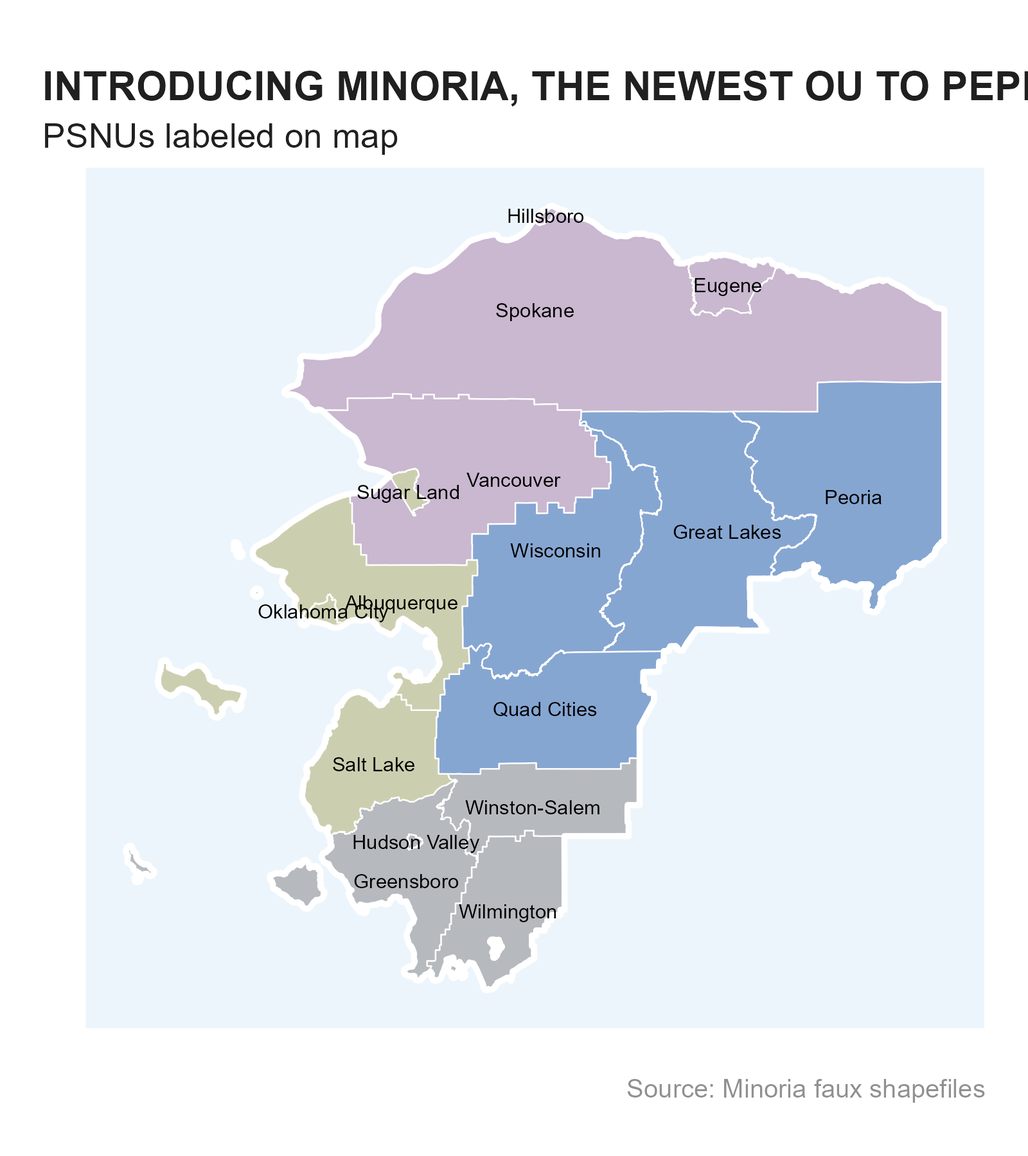
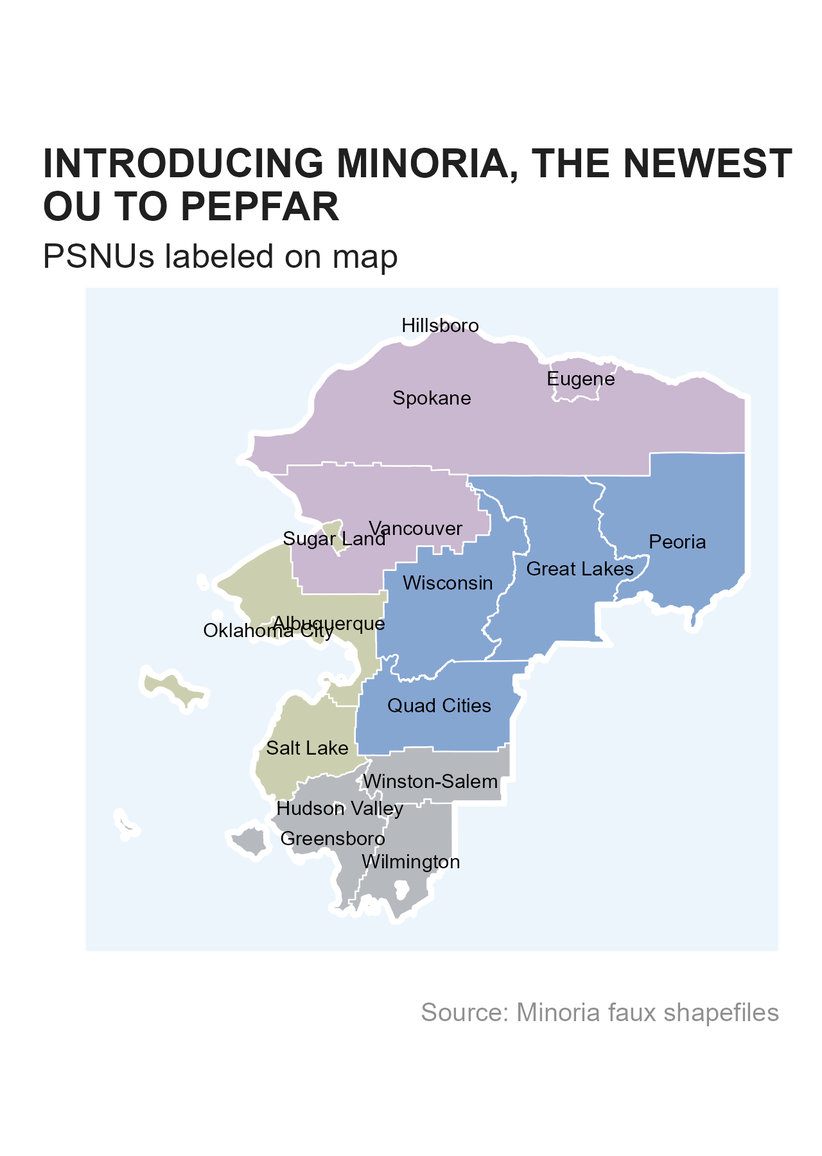
Deploying to gh-pages from @ USAID-OHA-SI/themask@cf52c7e6ea538b33329b32a1de2f7572c10486b0 🚀

diff --git a/articles/accessing-data.html b/articles/accessing-data.html
@@ -146,42 +146,19 @@ MSD available if you want to create your own version.</p>
 <div class="sourceCode" id="cb1"><pre class="downlit sourceCode r">
 <code class="sourceCode R"><span></span>
 <span><span class="co">#Install packages from</span></span>
-<span><span class="fu">remotes</span><span class="fu">::</span><span class="fu"><a href="https://remotes.r-lib.org/reference/install_github.html" class="external-link">install_github</a></span><span class="op">(</span><span class="st">"USAID-OHA-SI/gophr"</span><span class="op">)</span></span>
-<span><span class="co">#&gt; cpp11       (NA -&gt; 0.4.6 ) [CRAN]</span></span>
-<span><span class="co">#&gt; zip         (NA -&gt; 2.3.0 ) [CRAN]</span></span>
-<span><span class="co">#&gt; rstudioapi  (NA -&gt; 0.15.0) [CRAN]</span></span>
-<span><span class="co">#&gt; credentials (NA -&gt; 2.0.1 ) [CRAN]</span></span>
-<span><span class="co">#&gt; progress    (NA -&gt; 1.2.2 ) [CRAN]</span></span>
-<span><span class="co">#&gt; gert        (NA -&gt; 2.0.0 ) [CRAN]</span></span>
-<span><span class="co">#&gt; usethis     (NA -&gt; 2.2.2 ) [CRAN]</span></span>
-<span><span class="co">#&gt; tidyr       (NA -&gt; 1.3.0 ) [CRAN]</span></span>
-<span><span class="co">#&gt; readxl      (NA -&gt; 1.4.3 ) [CRAN]</span></span>
-<span><span class="co">#&gt; getPass     (NA -&gt; 0.2-2 ) [CRAN]</span></span>
-<span><span class="co">#&gt; <span style="color: #00BBBB;">──</span> <span style="color: #00BBBB;">R CMD build</span> <span style="color: #00BBBB;">─────────────────────────────────────────────────────────────────</span></span></span>
-<span><span class="co">#&gt; * checking for file ‘/tmp/RtmptbJYWt/remotes19bc542666be/USAID-OHA-SI-gophr-9779d75/DESCRIPTION’ ... OK</span></span>
-<span><span class="co">#&gt; * preparing ‘gophr’:</span></span>
-<span><span class="co">#&gt; * checking DESCRIPTION meta-information ... OK</span></span>
-<span><span class="co">#&gt; * checking for LF line-endings in source and make files and shell scripts</span></span>
-<span><span class="co">#&gt; * checking for empty or unneeded directories</span></span>
-<span><span class="co">#&gt; * building ‘gophr_3.2.0.tar.gz’</span></span>
-<span><span class="fu">remotes</span><span class="fu">::</span><span class="fu"><a href="https://remotes.r-lib.org/reference/install_github.html" class="external-link">install_github</a></span><span class="op">(</span><span class="st">"USAID-OHA-SI/glamr"</span><span class="op">)</span></span>
-<span><span class="co">#&gt; filelock   (NA -&gt; 1.0.2) [CRAN]</span></span>
-<span><span class="co">#&gt; sodium     (NA -&gt; 1.3.0) [CRAN]</span></span>
-<span><span class="co">#&gt; assertthat (NA -&gt; 0.2.1) [CRAN]</span></span>
-<span><span class="co">#&gt; keyring    (NA -&gt; 1.3.1) [CRAN]</span></span>
-<span><span class="co">#&gt; <span style="color: #00BBBB;">──</span> <span style="color: #00BBBB;">R CMD build</span> <span style="color: #00BBBB;">─────────────────────────────────────────────────────────────────</span></span></span>
-<span><span class="co">#&gt; * checking for file ‘/tmp/RtmptbJYWt/remotes19bc15f8e3ae/USAID-OHA-SI-glamr-2e08344/DESCRIPTION’ ... OK</span></span>
-<span><span class="co">#&gt; * preparing ‘glamr’:</span></span>
-<span><span class="co">#&gt; * checking DESCRIPTION meta-information ... OK</span></span>
-<span><span class="co">#&gt; * checking for LF line-endings in source and make files and shell scripts</span></span>
-<span><span class="co">#&gt; * checking for empty or unneeded directories</span></span>
-<span><span class="co">#&gt; * building ‘glamr_1.3.0.tar.gz’</span></span>
+<span><span class="fu">remotes</span><span class="fu">::</span><span class="fu"><a href="https://remotes.r-lib.org/reference/install_github.html" class="external-link">install_github</a></span><span class="op">(</span><span class="st">"USAID-OHA-SI/gophr"</span>, quiet <span class="op">=</span> <span class="cn">TRUE</span><span class="op">)</span></span>
+<span><span class="fu">remotes</span><span class="fu">::</span><span class="fu"><a href="https://remotes.r-lib.org/reference/install_github.html" class="external-link">install_github</a></span><span class="op">(</span><span class="st">"USAID-OHA-SI/glamr"</span>, quiet <span class="op">=</span> <span class="cn">TRUE</span><span class="op">)</span></span>
+<span><span class="fu">remotes</span><span class="fu">::</span><span class="fu"><a href="https://remotes.r-lib.org/reference/install_github.html" class="external-link">install_github</a></span><span class="op">(</span><span class="st">"USAID-OHA-SI/glitr"</span>, quiet <span class="op">=</span> <span class="cn">TRUE</span><span class="op">)</span></span>
 <span></span>
 <span><span class="co">#Load Dependencies</span></span>
 <span><span class="kw"><a href="https://rdrr.io/r/base/library.html" class="external-link">library</a></span><span class="op">(</span><span class="va">themask</span><span class="op">)</span></span>
 <span><span class="kw"><a href="https://rdrr.io/r/base/library.html" class="external-link">library</a></span><span class="op">(</span><span class="va"><a href="https://dplyr.tidyverse.org" class="external-link">dplyr</a></span><span class="op">)</span></span>
 <span><span class="kw"><a href="https://rdrr.io/r/base/library.html" class="external-link">library</a></span><span class="op">(</span><span class="va"><a href="https://usaid-oha-si.github.io/gophr/" class="external-link">gophr</a></span><span class="op">)</span></span>
-<span><span class="kw"><a href="https://rdrr.io/r/base/library.html" class="external-link">library</a></span><span class="op">(</span><span class="va"><a href="https://github.com/USAID-OHA-SI/glamr" class="external-link">glamr</a></span><span class="op">)</span></span></code></pre></div>
+<span><span class="kw"><a href="https://rdrr.io/r/base/library.html" class="external-link">library</a></span><span class="op">(</span><span class="va"><a href="https://github.com/USAID-OHA-SI/glamr" class="external-link">glamr</a></span><span class="op">)</span></span>
+<span><span class="kw"><a href="https://rdrr.io/r/base/library.html" class="external-link">library</a></span><span class="op">(</span><span class="va"><a href="https://ggplot2.tidyverse.org" class="external-link">ggplot2</a></span><span class="op">)</span></span>
+<span><span class="kw"><a href="https://rdrr.io/r/base/library.html" class="external-link">library</a></span><span class="op">(</span><span class="va"><a href="https://github.com/USAID-OHA-SI/glitr" class="external-link">glitr</a></span><span class="op">)</span></span>
+<span><span class="co">#&gt; Importing fonts may take a few minutes, depending on the number of fonts and the speed of the system.</span></span>
+<span><span class="co">#&gt; Continue? [y/n]</span></span></code></pre></div>
 <div class="sourceCode" id="cb2"><pre class="downlit sourceCode r">
 <code class="sourceCode R"><span><span class="co">#check if you have the latest version available</span></span>
 <span><span class="fu"><a href="../reference/msk_available.html">msk_available</a></span><span class="op">(</span><span class="op">)</span></span>
@@ -202,13 +179,13 @@ the initial which would be v1).</p>
 <div class="sourceCode" id="cb3"><pre class="downlit sourceCode r">
 <code class="sourceCode R"><span><span class="co">#download folder path</span></span>
 <span><span class="va">download_folder</span> <span class="op">&lt;-</span> <span class="fu"><a href="https://rdrr.io/pkg/glamr/man/temp_folder.html" class="external-link">temp_folder</a></span><span class="op">(</span><span class="op">)</span></span>
-<span><span class="co">#&gt; <span style="color: #BBBB00;">ℹ</span> A temporary folder is now available here: <span style="color: #0000BB;">'/tmp/RtmptbJYWt/file19bc2efe55cd/'</span></span></span>
+<span><span class="co">#&gt; <span style="color: #BBBB00;">ℹ</span> A temporary folder is now available here: <span style="color: #0000BB;">'/tmp/RtmpQjMGJj/file1a391f7e2a57/'</span></span></span>
 <span><span class="co">#&gt; <span style="color: #BBBB00;">ℹ</span> The folder path is stored as the object <span style="color: #555555;">`folderpath_tmp`</span></span></span>
 <span></span>
 <span><span class="co">#download</span></span>
 <span><span class="fu"><a href="../reference/msk_download.html">msk_download</a></span><span class="op">(</span><span class="va">download_folder</span><span class="op">)</span></span>
 <span><span class="co">#&gt; The masked MSD has been downloaded to</span></span>
-<span><span class="co">#&gt; <span style="color: #0000BB;">/tmp/RtmptbJYWt/file19bc2efe55cd</span></span></span></code></pre></div>
+<span><span class="co">#&gt; <span style="color: #0000BB;">/tmp/RtmpQjMGJj/file1a391f7e2a57</span></span></span></code></pre></div>
 <p>In the above example, we could have specified the param
 <code>launch = TRUE</code> which opens up the Window’s folder specified
 automatically. The other parameter not used is the <code>tag</code>,
@@ -221,7 +198,7 @@ e.g. <code>tag = 2023.05.31.i</code>.</p>
 <code class="sourceCode R"><span></span>
 <span><span class="va">df_msd</span> <span class="op">&lt;-</span> <span class="fu"><a href="https://rdrr.io/pkg/glamr/man/return_latest.html" class="external-link">return_latest</a></span><span class="op">(</span><span class="va">download_folder</span>, <span class="st">"PSNU_IM"</span><span class="op">)</span> <span class="op"><a href="../reference/pipe.html">%&gt;%</a></span> </span>
 <span>  <span class="fu"><a href="https://usaid-oha-si.github.io/gophr/reference/read_psd.html" class="external-link">read_psd</a></span><span class="op">(</span><span class="op">)</span></span>
-<span><span class="co">#&gt; <span style="color: #BBBB00;">ℹ</span> Latest file in <span style="color: #0000BB;">'file19bc2efe55cd'</span> matching <span style="color: #0000BB;">'PSNU_IM'</span>:</span></span>
+<span><span class="co">#&gt; <span style="color: #BBBB00;">ℹ</span> Latest file in <span style="color: #0000BB;">'file1a391f7e2a57'</span> matching <span style="color: #0000BB;">'PSNU_IM'</span>:</span></span>
 <span><span class="co">#&gt; <span style="color: #0000BB;">'MER_Structured_TRAINING_Datasets_PSNU_IM_FY58-61_20230915_v2_1.zip'</span></span></span>
 <span></span>
 <span><span class="fu"><a href="https://pillar.r-lib.org/reference/glimpse.html" class="external-link">glimpse</a></span><span class="op">(</span><span class="va">df_msd</span><span class="op">)</span></span>
@@ -275,7 +252,7 @@ caption for your plot or other documentation.</p>
 <div class="sourceCode" id="cb5"><pre class="downlit sourceCode r">
 <code class="sourceCode R"><span></span>
 <span><span class="fu"><a href="https://usaid-oha-si.github.io/gophr/reference/get_metadata.html" class="external-link">get_metadata</a></span><span class="op">(</span><span class="va">download_folder</span>, <span class="st">"PSNU_IM"</span><span class="op">)</span></span>
-<span><span class="co">#&gt; <span style="color: #BBBB00;">ℹ</span> Latest file in <span style="color: #0000BB;">'file19bc2efe55cd'</span> matching <span style="color: #0000BB;">'PSNU_IM'</span>: <span style="color: #0000BB;">'MER_Structured_TRAINING_Datasets_PSNU_IM_FY58-61_20230915_v2_1.zip'</span></span></span>
+<span><span class="co">#&gt; <span style="color: #BBBB00;">ℹ</span> Latest file in <span style="color: #0000BB;">'file1a391f7e2a57'</span> matching <span style="color: #0000BB;">'PSNU_IM'</span>: <span style="color: #0000BB;">'MER_Structured_TRAINING_Datasets_PSNU_IM_FY58-61_20230915_v2_1.zip'</span></span></span>
 <span><span class="co">#&gt; <span style="color: #BBBB00;">ℹ</span> <span style="color: #00BB00;">metadata</span> is now stored as a global object and metadata items can be accessed via <span style="color: #555555;">`metadata$...`</span></span></span>
 <span></span>
 <span><span class="va">metadata</span></span>
@@ -339,24 +316,24 @@ shapefiles that can be used for mapping.</p>
 <code>minoria_shp_ou</code>, <code>minoria_shp_snu1</code>,
 <code>minoria_shp_psnu</code>.</p>
 <div class="sourceCode" id="cb7"><pre class="downlit sourceCode r">
-<code class="sourceCode R"><span></span>
-<span><span class="kw"><a href="https://rdrr.io/r/base/library.html" class="external-link">library</a></span><span class="op">(</span><span class="va"><a href="https://ggplot2.tidyverse.org" class="external-link">ggplot2</a></span><span class="op">)</span></span>
-<span><span class="kw"><a href="https://rdrr.io/r/base/library.html" class="external-link">library</a></span><span class="op">(</span><span class="va">glitr</span><span class="op">)</span></span>
-<span><span class="kw"><a href="https://rdrr.io/r/base/library.html" class="external-link">library</a></span><span class="op">(</span><span class="va">themask</span><span class="op">)</span></span>
-<span></span>
-<span><span class="fu">ggplot</span><span class="op">(</span><span class="op">)</span> <span class="op">+</span></span>
-<span>  <span class="fu">geom_sf</span><span class="op">(</span>data <span class="op">=</span> <span class="va">minoria_shp_psnu</span>, <span class="fu">aes</span><span class="op">(</span>geometry <span class="op">=</span> <span class="va">geometry</span>, fill <span class="op">=</span> <span class="va">snu1</span><span class="op">)</span>, color <span class="op">=</span> <span class="st">"white"</span>, linewidth <span class="op">=</span> <span class="fl">0.25</span>, alpha <span class="op">=</span> <span class="fl">0.5</span><span class="op">)</span> <span class="op">+</span></span>
-<span>  <span class="fu">geom_sf</span><span class="op">(</span>data <span class="op">=</span> <span class="va">minoria_shp_ou</span>, <span class="fu">aes</span><span class="op">(</span>geometry <span class="op">=</span> <span class="va">geometry</span><span class="op">)</span>, fill <span class="op">=</span> <span class="cn">NA</span>, color <span class="op">=</span> <span class="st">"white"</span>, linewidth <span class="op">=</span> <span class="fl">1</span><span class="op">)</span> <span class="op">+</span></span>
-<span>  <span class="fu">geom_sf_text</span><span class="op">(</span>data <span class="op">=</span> <span class="va">minoria_shp_psnu</span>, <span class="fu">aes</span><span class="op">(</span>geometry <span class="op">=</span> <span class="va">geometry</span>, label <span class="op">=</span> <span class="va">psnu</span><span class="op">)</span>, size <span class="op">=</span> <span class="fl">7</span><span class="op">/</span><span class="va">.pt</span><span class="op">)</span> <span class="op">+</span></span>
-<span>  <span class="fu">scale_fill_si</span><span class="op">(</span>palette <span class="op">=</span> <span class="st">"siei"</span>, discrete <span class="op">=</span> <span class="cn">TRUE</span><span class="op">)</span> <span class="op">+</span></span>
-<span>  <span class="fu">scale_color_si</span><span class="op">(</span>palette <span class="op">=</span> <span class="st">"siei"</span>, discrete <span class="op">=</span> <span class="cn">TRUE</span><span class="op">)</span> <span class="op">+</span></span>
-<span>  <span class="fu">si_style_map</span><span class="op">(</span><span class="op">)</span> <span class="op">+</span></span>
-<span>  <span class="fu">labs</span><span class="op">(</span>x <span class="op">=</span> <span class="st">""</span>, y <span class="op">=</span> <span class="st">""</span>, title <span class="op">=</span> <span class="st">"INTRODUCING MINORIA, THE NEWEST OU TO PEPFAR"</span>,</span>
+<code class="sourceCode R"><span><span class="fu"><a href="https://ggplot2.tidyverse.org/reference/ggplot.html" class="external-link">ggplot</a></span><span class="op">(</span><span class="op">)</span> <span class="op">+</span></span>
+<span>  <span class="fu"><a href="https://ggplot2.tidyverse.org/reference/ggsf.html" class="external-link">geom_sf</a></span><span class="op">(</span>data <span class="op">=</span> <span class="va">minoria_shp_psnu</span>, <span class="fu"><a href="https://ggplot2.tidyverse.org/reference/aes.html" class="external-link">aes</a></span><span class="op">(</span>geometry <span class="op">=</span> <span class="va">geometry</span>, fill <span class="op">=</span> <span class="va">snu1</span><span class="op">)</span>, color <span class="op">=</span> <span class="st">"white"</span>, linewidth <span class="op">=</span> <span class="fl">0.25</span>, alpha <span class="op">=</span> <span class="fl">0.5</span><span class="op">)</span> <span class="op">+</span></span>
+<span>  <span class="fu"><a href="https://ggplot2.tidyverse.org/reference/ggsf.html" class="external-link">geom_sf</a></span><span class="op">(</span>data <span class="op">=</span> <span class="va">minoria_shp_ou</span>, <span class="fu"><a href="https://ggplot2.tidyverse.org/reference/aes.html" class="external-link">aes</a></span><span class="op">(</span>geometry <span class="op">=</span> <span class="va">geometry</span><span class="op">)</span>, fill <span class="op">=</span> <span class="cn">NA</span>, color <span class="op">=</span> <span class="st">"white"</span>, linewidth <span class="op">=</span> <span class="fl">1</span><span class="op">)</span> <span class="op">+</span></span>
+<span>  <span class="fu"><a href="https://ggplot2.tidyverse.org/reference/ggsf.html" class="external-link">geom_sf_text</a></span><span class="op">(</span>data <span class="op">=</span> <span class="va">minoria_shp_psnu</span>, <span class="fu"><a href="https://ggplot2.tidyverse.org/reference/aes.html" class="external-link">aes</a></span><span class="op">(</span>geometry <span class="op">=</span> <span class="va">geometry</span>, label <span class="op">=</span> <span class="va">psnu</span><span class="op">)</span>, size <span class="op">=</span> <span class="fl">7</span><span class="op">/</span><span class="va">.pt</span><span class="op">)</span> <span class="op">+</span></span>
+<span>  <span class="fu"><a href="https://rdrr.io/pkg/glitr/man/scale_fill_si.html" class="external-link">scale_fill_si</a></span><span class="op">(</span>palette <span class="op">=</span> <span class="st">"siei"</span>, discrete <span class="op">=</span> <span class="cn">TRUE</span><span class="op">)</span> <span class="op">+</span></span>
+<span>  <span class="fu"><a href="https://rdrr.io/pkg/glitr/man/scale_color_si.html" class="external-link">scale_color_si</a></span><span class="op">(</span>palette <span class="op">=</span> <span class="st">"siei"</span>, discrete <span class="op">=</span> <span class="cn">TRUE</span><span class="op">)</span> <span class="op">+</span></span>
+<span>  <span class="fu"><a href="https://rdrr.io/pkg/glitr/man/si_style_map.html" class="external-link">si_style_map</a></span><span class="op">(</span><span class="op">)</span> <span class="op">+</span></span>
+<span>  <span class="fu"><a href="https://ggplot2.tidyverse.org/reference/labs.html" class="external-link">labs</a></span><span class="op">(</span>x <span class="op">=</span> <span class="st">""</span>, y <span class="op">=</span> <span class="st">""</span>, </span>
+<span>       title <span class="op">=</span> <span class="fu">stringr</span><span class="fu">::</span><span class="fu"><a href="https://stringr.tidyverse.org/reference/str_wrap.html" class="external-link">str_wrap</a></span><span class="op">(</span><span class="st">"INTRODUCING MINORIA, THE NEWEST OU TO PEPFAR"</span>, width <span class="op">=</span> <span class="fl">32</span><span class="op">)</span>,</span>
 <span>       subtitle <span class="op">=</span> <span class="st">"PSNUs labeled on map"</span>,</span>
 <span>       caption <span class="op">=</span> <span class="st">"Source: Minoria faux shapefiles"</span><span class="op">)</span> <span class="op">+</span></span>
-<span>  <span class="fu">theme</span><span class="op">(</span>panel.background <span class="op">=</span> <span class="fu">element_rect</span><span class="op">(</span>fill <span class="op">=</span> <span class="st">"#edf5fc"</span>, color <span class="op">=</span> <span class="st">"white"</span><span class="op">)</span>,</span>
+<span>  <span class="fu"><a href="https://ggplot2.tidyverse.org/reference/theme.html" class="external-link">theme</a></span><span class="op">(</span>panel.background <span class="op">=</span> <span class="fu"><a href="https://ggplot2.tidyverse.org/reference/element.html" class="external-link">element_rect</a></span><span class="op">(</span>fill <span class="op">=</span> <span class="st">"#edf5fc"</span>, color <span class="op">=</span> <span class="st">"white"</span><span class="op">)</span>,</span>
 <span>        legend.position <span class="op">=</span> <span class="st">"none"</span><span class="op">)</span></span></code></pre></div>
-<p><img src="minoria_map.png"><!-- --> ### Manual</p>
+<p><img src="minoria_map.png"><!-- --></p>
+</div>
+<div class="section level3">
+<h3 id="manual-1">Manual<a class="anchor" aria-label="anchor" href="#manual-1"></a>
+</h3>
 <p>The shapefile can also be downloaded manually for use in your GIS
 software of choice, e.g. ArcGIS, QGIS, Tableau. You can download these
 files from the repository’s Releases page, clicking on the <a href="https://github.com/USAID-OHA-SI/themask/releases/tag/shapefiles" class="external-link">release

diff --git a/reference/msk_release.html b/reference/msk_release.html
@@ -106,22 +106,22 @@ does not save the file)</p></dd>
     <h2>Examples</h2>
     <div class="sourceCode"><pre class="sourceCode r"><code><span class="r-in"><span><span class="kw">if</span> <span class="op">(</span><span class="cn">FALSE</span><span class="op">)</span> <span class="op">{</span></span></span>
 <span class="r-in"><span><span class="co">#create and upload a new release</span></span></span>
-<span class="r-in"><span><span class="kw"><a href="https://rdrr.io/r/base/library.html" class="external-link">library</a></span><span class="op">(</span><span class="va">glamr</span><span class="op">)</span></span></span>
+<span class="r-in"><span><span class="kw"><a href="https://rdrr.io/r/base/library.html" class="external-link">library</a></span><span class="op">(</span><span class="va"><a href="https://github.com/USAID-OHA-SI/glamr" class="external-link">glamr</a></span><span class="op">)</span></span></span>
 <span class="r-in"><span><span class="kw"><a href="https://rdrr.io/r/base/library.html" class="external-link">library</a></span><span class="op">(</span><span class="va">themask</span><span class="op">)</span></span></span>
 <span class="r-in"><span></span></span>
 <span class="r-in"><span><span class="co">#store path to latest MSD</span></span></span>
-<span class="r-in"><span><span class="va">path</span> <span class="op">&lt;-</span> <span class="fu">si_path</span><span class="op">(</span><span class="op">)</span> <span class="op"><a href="pipe.html">%&gt;%</a></span> <span class="fu">return_latest</span><span class="op">(</span><span class="st">"PSNU_IM"</span><span class="op">)</span></span></span>
+<span class="r-in"><span><span class="va">path</span> <span class="op">&lt;-</span> <span class="fu"><a href="https://rdrr.io/pkg/glamr/man/si_path.html" class="external-link">si_path</a></span><span class="op">(</span><span class="op">)</span> <span class="op"><a href="pipe.html">%&gt;%</a></span> <span class="fu"><a href="https://rdrr.io/pkg/glamr/man/return_latest.html" class="external-link">return_latest</a></span><span class="op">(</span><span class="st">"PSNU_IM"</span><span class="op">)</span></span></span>
 <span class="r-in"><span></span></span>
 <span class="r-in"><span><span class="co">#create a masked dataset from the PSNUxIM MSD</span></span></span>
 <span class="r-in"><span><span class="fu">msk_release</span><span class="op">(</span><span class="va">path</span>, <span class="st">"project1/data"</span><span class="op">)</span></span></span>
 <span class="r-in"><span><span class="op">}</span></span></span>
 <span class="r-in"><span><span class="kw">if</span> <span class="op">(</span><span class="cn">FALSE</span><span class="op">)</span> <span class="op">{</span></span></span>
 <span class="r-in"><span><span class="co">#upload release from an existing masked dataset</span></span></span>
-<span class="r-in"><span><span class="kw"><a href="https://rdrr.io/r/base/library.html" class="external-link">library</a></span><span class="op">(</span><span class="va">glamr</span><span class="op">)</span></span></span>
+<span class="r-in"><span><span class="kw"><a href="https://rdrr.io/r/base/library.html" class="external-link">library</a></span><span class="op">(</span><span class="va"><a href="https://github.com/USAID-OHA-SI/glamr" class="external-link">glamr</a></span><span class="op">)</span></span></span>
 <span class="r-in"><span><span class="kw"><a href="https://rdrr.io/r/base/library.html" class="external-link">library</a></span><span class="op">(</span><span class="va">themask</span><span class="op">)</span></span></span>
 <span class="r-in"><span></span></span>
 <span class="r-in"><span><span class="co">#store path to masked dataset</span></span></span>
-<span class="r-in"><span><span class="va">path_msk</span> <span class="op">&lt;-</span> <span class="fu">return_latest</span><span class="op">(</span><span class="st">"project1/data"</span>,<span class="st">"TRAINING"</span><span class="op">)</span></span></span>
+<span class="r-in"><span><span class="va">path_msk</span> <span class="op">&lt;-</span> <span class="fu"><a href="https://rdrr.io/pkg/glamr/man/return_latest.html" class="external-link">return_latest</a></span><span class="op">(</span><span class="st">"project1/data"</span>,<span class="st">"TRAINING"</span><span class="op">)</span></span></span>
 <span class="r-in"><span></span></span>
 <span class="r-in"><span><span class="co">#create a masked dataset from the PSNUxIM MSD</span></span></span>
 <span class="r-in"><span><span class="fu">msk_release</span><span class="op">(</span><span class="va">path_msk</span><span class="op">)</span></span></span>

diff --git a/reference/msk_create.html b/reference/msk_create.html
@@ -100,11 +100,11 @@ does not export the data)</p></dd>
     <h2>Examples</h2>
     <div class="sourceCode"><pre class="sourceCode r"><code><span class="r-in"><span><span class="kw">if</span> <span class="op">(</span><span class="cn">FALSE</span><span class="op">)</span> <span class="op">{</span></span></span>
 <span class="r-in"><span><span class="co">#create a masked dataset</span></span></span>
-<span class="r-in"><span><span class="kw"><a href="https://rdrr.io/r/base/library.html" class="external-link">library</a></span><span class="op">(</span><span class="va">glamr</span><span class="op">)</span></span></span>
+<span class="r-in"><span><span class="kw"><a href="https://rdrr.io/r/base/library.html" class="external-link">library</a></span><span class="op">(</span><span class="va"><a href="https://github.com/USAID-OHA-SI/glamr" class="external-link">glamr</a></span><span class="op">)</span></span></span>
 <span class="r-in"><span><span class="kw"><a href="https://rdrr.io/r/base/library.html" class="external-link">library</a></span><span class="op">(</span><span class="va">themask</span><span class="op">)</span></span></span>
 <span class="r-in"><span></span></span>
 <span class="r-in"><span><span class="co">#store path to latest MSD</span></span></span>
-<span class="r-in"><span><span class="va">path</span> <span class="op">&lt;-</span> <span class="fu">si_path</span><span class="op">(</span><span class="op">)</span> <span class="op"><a href="pipe.html">%&gt;%</a></span> <span class="fu">return_latest</span><span class="op">(</span><span class="st">"PSNU_IM"</span><span class="op">)</span></span></span>
+<span class="r-in"><span><span class="va">path</span> <span class="op">&lt;-</span> <span class="fu"><a href="https://rdrr.io/pkg/glamr/man/si_path.html" class="external-link">si_path</a></span><span class="op">(</span><span class="op">)</span> <span class="op"><a href="pipe.html">%&gt;%</a></span> <span class="fu"><a href="https://rdrr.io/pkg/glamr/man/return_latest.html" class="external-link">return_latest</a></span><span class="op">(</span><span class="st">"PSNU_IM"</span><span class="op">)</span></span></span>
 <span class="r-in"><span></span></span>
 <span class="r-in"><span><span class="co">#create a masked dataset from the PSNUxIM MSD</span></span></span>
 <span class="r-in"><span><span class="fu">msk_create</span><span class="op">(</span><span class="va">path</span>, <span class="st">"project1/data"</span><span class="op">)</span></span></span>

diff --git a/reference/msk_gen_uid.html b/reference/msk_gen_uid.html
@@ -90,7 +90,7 @@ and used by DATIM for the MER and other PEPFAR Structured Datasets.</p>
     <div id="ref-examples">
     <h2>Examples</h2>
     <div class="sourceCode"><pre class="sourceCode r"><code><span class="r-in"><span> <span class="fu">msk_gen_uid</span><span class="op">(</span><span class="op">)</span></span></span>
-<span class="r-out co"><span class="r-pr">#&gt;</span> [1] "yGguk3mcsEK"</span>
+<span class="r-out co"><span class="r-pr">#&gt;</span> [1] "lqdcbWAoCgi"</span>
 </code></pre></div>
     </div>
   </div>
